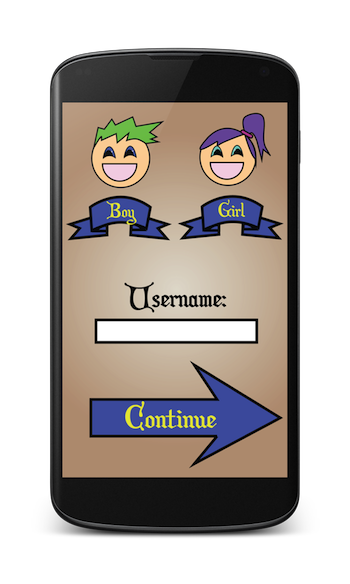
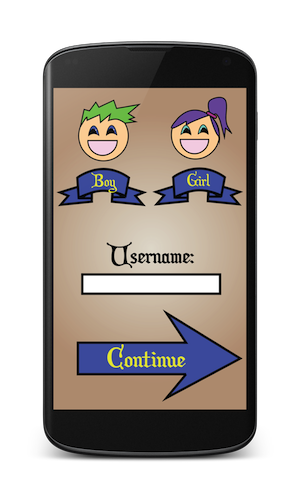
Website

diff --git a/app/assets/stylesheets/application.css.scss b/app/assets/stylesheets/application.css.scss
@@ -157,19 +157,20 @@ body{
 .container{
   min-height: 100%;
   background-color: #ccc87d;
+  background-image: url("background.png");
 }
 
 .iphone{
-  width: 350px;
-  height: 546px;
-  margin: auto;
+  width: 300px;
+  height: 468px;
+  margin: 0 120px;
   background-image: url("iphone.png");
 }
 
 .android{
-  width: 350px;
-  height: 525px;
-  margin: 21px auto;
+  width: 300px;
+  height: 501px;
+  margin: 14px -21px;
   background-image: url("android.png");
 }
 
@@ -178,4 +179,16 @@ body{
   height: 175px;
   width: 475px;
   background-image: url("banner.png");
+}
+
+.pitch{
+  outline: black 1px;
+  color: white;
+  font-size: 21px;
+  text-align: center;
+  margin-bottom: 30px;
+}
+
+.soon{
+  font-size: 30px;
 }
